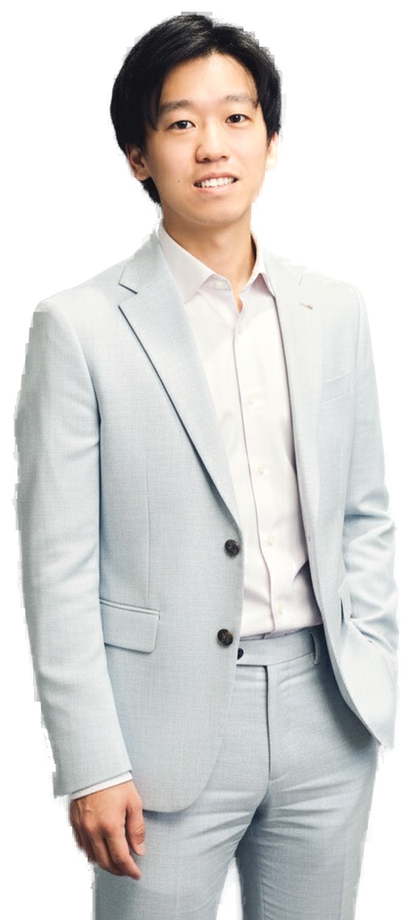
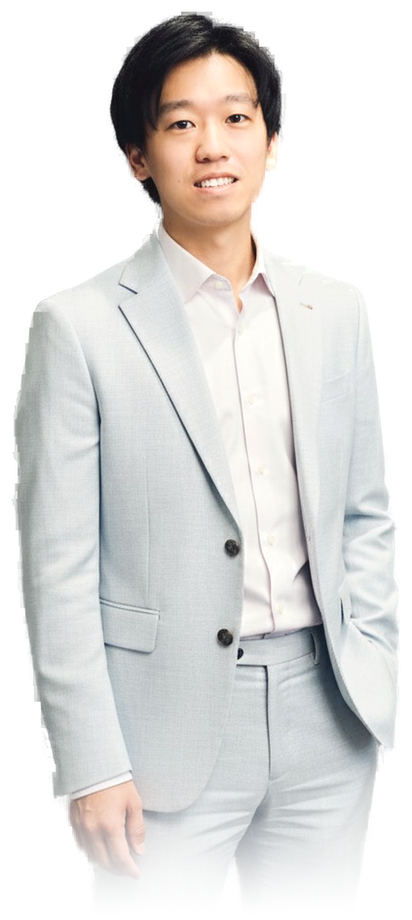
修正開場人像被切斷
原因不在版面，在來源照片。棚拍原檔只拍到大腿，去背後主體外框
的下緣就是原圖底邊（y 1183 / 1184）。先前有攝影背景時，畫框
解釋了這個裁切；改成去背浮在純色上之後，腿就這樣斷掉。

處理
- 在圖檔底部 24% 加平滑淡出（cos 曲線收尾），讓人像溶進背景。
  高度 80% 處 alpha 240、90% 處 113、97% 處 18。
- 人像高度由 88svh 降為 84svh，上限 1000→940px，留出淡出的空間。
- 窄螢幕由 62svh 降為 58svh，並向右外推，避免溢出視窗右緣。

以程式依 CSS 規則模擬 1440×900、1440×720、390×844 三種視窗確認，
三者的人像都完整落在畫面內且底部自然收尾。

淡出後 webp 由 61 KB 降為 43 KB。

Changed region(s): [[0.1165, 0.8217, 0.9029, 1.0]]

diff --git a/assets/style.css b/assets/style.css
@@ -135,8 +135,10 @@ body.menu-open .menu-list a:nth-child(7){transition-delay:.46s}
 }
 .hero-figure{
   grid-column:2;justify-self:center;align-self:end;
-  height:min(88svh,1000px);display:flex;align-items:flex-end;
+  height:min(84svh,940px);max-width:100%;display:flex;align-items:flex-end;justify-content:center;
 }
+/* 原始棚拍照只拍到大腿，去背後浮在純色上會像被切斷，
+   因此在圖檔底部 24% 做平滑淡出，讓人像溶進背景。 */
 .hero-figure img{height:100%;width:auto;max-width:100%;object-fit:contain;object-position:bottom}
 .hero-inner{
   grid-column:1;grid-row:1;z-index:2;align-self:end;
@@ -162,7 +164,8 @@ body.menu-open .menu-list a:nth-child(7){transition-delay:.46s}
                  55%{transform:scaleX(1);transform-origin:right}100%{transform:scaleX(0);transform-origin:right}}
 @media (max-width:820px){
   .hero{grid-template-columns:1fr;align-items:end;min-height:100svh}
-  .hero-figure{grid-column:1;grid-row:1;height:min(62svh,640px);justify-self:end;opacity:.92}
+  .hero-figure{grid-column:1;grid-row:1;height:min(58svh,600px);justify-self:end;
+               margin-right:calc(var(--pad) * -.35);opacity:.9}
   .hero-inner{grid-row:1;padding-bottom:clamp(5rem,17vh,8rem)}
   .hero-name{font-size:clamp(1.8rem,9vw,2.6rem)}
 }
